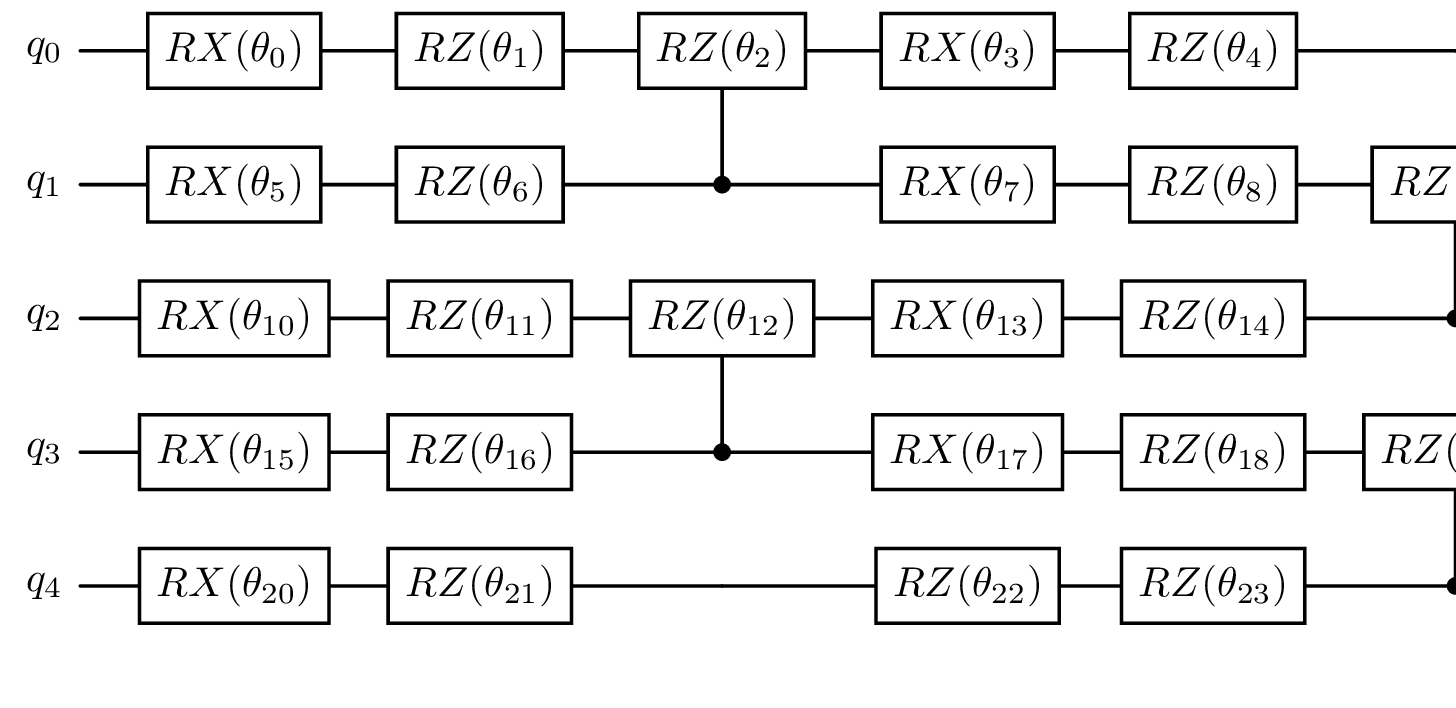
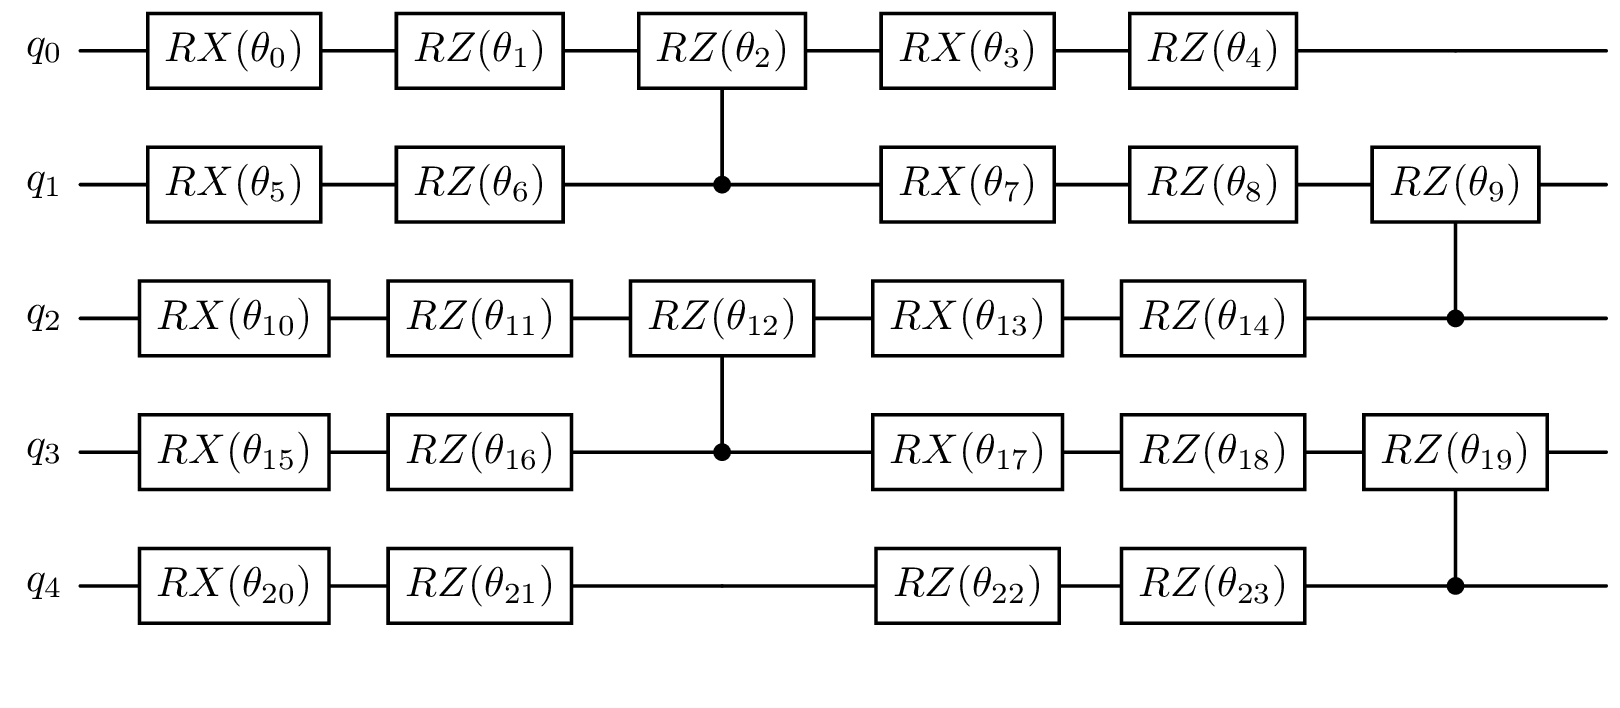
ansatz figures

diff --git a/images/ansatz/quantikz/Full-Pauli-CRX.tex b/images/ansatz/quantikz/Full-Pauli-CRX.tex
@@ -6,14 +6,11 @@
 \def\myvdots{\ \vdots\ }
 
 \begin{document}
-%Full-Pauli-CRX(	\theta_{x})
-%\resizebox{\textwidth}{!}{
-	\begin{quantikz}
-		\lstick{$q_0$}& \gate{RX(	\theta_{0})} & \gate{RZ(	\theta_{1})} & \gate{RX(	\theta_{2})} & \gate{RX(	\theta_{3})} & \gate{RZ(	\theta_{4})} & &\\
-		\lstick{$q_1$}& \gate{RX(	\theta_{5})} & \gate{RZ(	\theta_{6})} &  \ctrl{-1} & \gate{RX(	\theta_{7})} & \gate{RZ(	\theta_{8})} & \gate{RX(	\theta_{9})} &\\
-		\lstick{$q_2$}& \gate{RX(	\theta_{10})} & \gate{RZ(	\theta_{11})} &  \gate{RX(	\theta_{12})} & \gate{RX(	\theta_{13})} & \gate{RZ(	\theta_{14})} & \ctrl{-1} &\\
-		\lstick{$q_3$}& \gate{RX(	\theta_{15})} & \gate{RZ(	\theta_{16})} & \ctrl{-1}  & \gate{RX(	\theta_{17})} & \gate{RZ(	\theta_{18})} & \gate{RX(	\theta_{19})}&\\
-		\lstick{$q_4$}& \gate{RX(	\theta_{20})} & \gate{RZ(	\theta_{21})} &   & \gate{RX(	\theta_{22})} & \gate{RZ(	\theta_{23})} & \ctrl{-1}&\\		
-	\end{quantikz}
-%}              
+\begin{quantikz}
+	\lstick{$q_0$}& \gate{RX(	\theta_{0})} & \gate{RZ(	\theta_{1})} & \gate{RX(	\theta_{2})} & \gate{RX(	\theta_{3})} & \gate{RZ(	\theta_{4})} & &\\
+	\lstick{$q_1$}& \gate{RX(	\theta_{5})} & \gate{RZ(	\theta_{6})} &  \ctrl{-1} & \gate{RX(	\theta_{7})} & \gate{RZ(	\theta_{8})} & \gate{RX(	\theta_{9})} &\\
+	\lstick{$q_2$}& \gate{RX(	\theta_{10})} & \gate{RZ(	\theta_{11})} &  \gate{RX(	\theta_{12})} & \gate{RX(	\theta_{13})} & \gate{RZ(	\theta_{14})} & \ctrl{-1} &\\
+	\lstick{$q_3$}& \gate{RX(	\theta_{15})} & \gate{RZ(	\theta_{16})} & \ctrl{-1}  & \gate{RX(	\theta_{17})} & \gate{RZ(	\theta_{18})} & \gate{RX(	\theta_{19})}&\\
+	\lstick{$q_4$}& \gate{RX(	\theta_{20})} & \gate{RZ(	\theta_{21})} &   & \gate{RX(	\theta_{22})} & \gate{RZ(	\theta_{23})} & \ctrl{-1}&\\		
+\end{quantikz}
 \end{document}

diff --git a/images/ansatz/quantikz/Full-Pauli-CRZ.tex b/images/ansatz/quantikz/Full-Pauli-CRZ.tex
@@ -6,15 +6,11 @@
 \def\myvdots{\ \vdots\ }
 
 \begin{document}
- %Full-Pauli-CRZ(	\theta_{x})
- %\resizebox{\textwidth}{!}{
-	\begin{quantikz}
+\begin{quantikz}
 	\lstick{$q_0$}& \gate{RX(	\theta_{0})} & \gate{RZ(	\theta_{1})} & \gate{RZ(	\theta_{2})} & \gate{RX(	\theta_{3})} & \gate{RZ(	\theta_{4})} & &\\
 	\lstick{$q_1$}& \gate{RX(	\theta_{5})} & \gate{RZ(	\theta_{6})} &  \ctrl{-1} & \gate{RX(	\theta_{7})} & \gate{RZ(	\theta_{8})} & \gate{RZ(	\theta_{9})} &\\
 	\lstick{$q_2$}& \gate{RX(	\theta_{10})} & \gate{RZ(	\theta_{11})} &  \gate{RZ(	\theta_{12})} & \gate{RX(	\theta_{13})} & \gate{RZ(	\theta_{14})} & \ctrl{-1} &\\
 	\lstick{$q_3$}& \gate{RX(	\theta_{15})} & \gate{RZ(	\theta_{16})} & \ctrl{-1}  & \gate{RX(	\theta_{17})} & \gate{RZ(	\theta_{18})} & \gate{RZ(	\theta_{19})}&\\
 	\lstick{$q_4$}& \gate{RX(	\theta_{20})} & \gate{RZ(	\theta_{21})} &   & \gate{RZ(	\theta_{22})} & \gate{RZ(	\theta_{23})} & \ctrl{-1}&\\		
 \end{quantikz}
- 	%}
-              
 \end{document}

diff --git a/images/ansatz/quantikz/Modified-Pauli-CRX.tex b/images/ansatz/quantikz/Modified-Pauli-CRX.tex
@@ -6,8 +6,6 @@
 \def\myvdots{\ \vdots\ }
 
 \begin{document}
-%Full-Pauli-CRX(	\theta_{x})
-%\resizebox{\textwidth}{!}{
 	\begin{quantikz}
 		\lstick{$q_0$}& \gate{RX(	\theta_{0})} & \gate{RZ(	\theta_{1})} & \gate{RX(	\theta_{2})} & &  & &\\
 		\lstick{$q_1$}& \gate{RX(	\theta_{3})} & \gate{RZ(	\theta_{4})} &  \ctrl{-1} & \gate{RX(	\theta_{5})} & \gate{RZ(	\theta_{6})} & \gate{RX(	\theta_{7})} &\\
@@ -15,5 +13,4 @@
 		\lstick{$q_3$}& \gate{RX(	\theta_{13})} & \gate{RZ(	\theta_{14})} & \ctrl{-1}  & \gate{RX(	\theta_{15})} & \gate{RZ(	\theta_{16})} & \gate{RX(	\theta_{17})}&\\
 		\lstick{$q_4$}& \gate{RX(	\theta_{18})} & \gate{RZ(	\theta_{19})} &   &  &  & \ctrl{-1}&\\		
 	\end{quantikz}
-%}              
 \end{document}

diff --git a/images/ansatz/quantikz/Modified-Pauli-CRZ.tex b/images/ansatz/quantikz/Modified-Pauli-CRZ.tex
@@ -6,8 +6,6 @@
 \def\myvdots{\ \vdots\ }
 
 \begin{document}
-%Full-Pauli-CRZ(	\theta)
-%\resizebox{\textwidth}{!}{
 	\begin{quantikz}
 		\lstick{$q_0$}& \gate{RX(	\theta_{0})} & \gate{RZ(	\theta_{1})} & \gate{RZ(	\theta_{2})} & &  & &\\
 		\lstick{$q_1$}& \gate{RX(	\theta_{3})} & \gate{RZ(	\theta_{4})} &  \ctrl{-1} & \gate{RZ(	\theta_{5})} & \gate{RZ(	\theta_{6})} & \gate{RZ(	\theta_{7})} &\\
@@ -15,6 +13,4 @@
 		\lstick{$q_3$}& \gate{RX(	\theta_{13})} & \gate{RZ(	\theta_{14})} & \ctrl{-1}  & \gate{RX(	\theta_{15})} & \gate{RZ(	\theta_{16})} & \gate{RZ(	\theta_{17})}&\\
 		\lstick{$q_4$}& \gate{RX(	\theta_{18})} & \gate{RZ(	\theta_{19})} &   &  &  & \ctrl{-1}&\\		
 	\end{quantikz}
-	%}
-
 \end{document}

diff --git a/images/ansatz/quantikz/Efficient-CRX.tex b/images/ansatz/quantikz/Efficient-CRX.tex
@@ -6,8 +6,6 @@
 \def\myvdots{\ \vdots\ }
 
 \begin{document}
-
-%Efficient-CRX(	\theta)
 \begin{quantikz}
 	\lstick{$q_0$} & \gate{RX(	\theta_{0})} & \gate{RZ(	\theta_{1})} & \ctrl{1} & & & &\\
 	\lstick{$q_1$} & \gate{RX(	\theta_{2})} & \gate{RZ(	\theta_{3})} & \gate{RX(	\theta_{4})} & \ctrl{1}& & &\\
@@ -15,6 +13,4 @@
 	\lstick{$q_3$} & \gate{RX(	\theta_{8})} & \gate{RZ(	\theta_{9})} & & & \gate{RX(	\theta_{10})} & \ctrl{1} &\\
 	\lstick{$q_4$} & \gate{RX(	\theta_{11})} & \gate{RZ(	\theta_{12})} & & &  & \gate{RX(	\theta_{13})} & \\
 \end{quantikz}
-
-
 \end{document}

diff --git a/images/ansatz/quantikz/Efficient-CRZ.tex b/images/ansatz/quantikz/Efficient-CRZ.tex
@@ -6,8 +6,6 @@
 \def\myvdots{\ \vdots\ }
 
 \begin{document}
-
-%Efficient-CRZ(	\theta)
 \begin{quantikz}
 	\lstick{$q_0$} & \gate{RX(	\theta_{0})} & \gate{RZ(	\theta_{1})} & \ctrl{1} & & & &\\
 	\lstick{$q_1$} & \gate{RX(	\theta_{2})} & \gate{RZ(	\theta_{3})} & \gate{RZ(	\theta_{4})} & \ctrl{1}& & &\\
@@ -15,5 +13,4 @@
 	\lstick{$q_3$} & \gate{RX(	\theta_{8})} & \gate{RZ(	\theta_{9})} & & & \gate{RZ(	\theta_{10})} & \ctrl{1} &\\
 	\lstick{$q_4$} & \gate{RX(	\theta_{11})} & \gate{RZ(	\theta_{12})} & & &  & \gate{RZ(	\theta_{13})} & \\
 \end{quantikz}
-
 \end{document}
